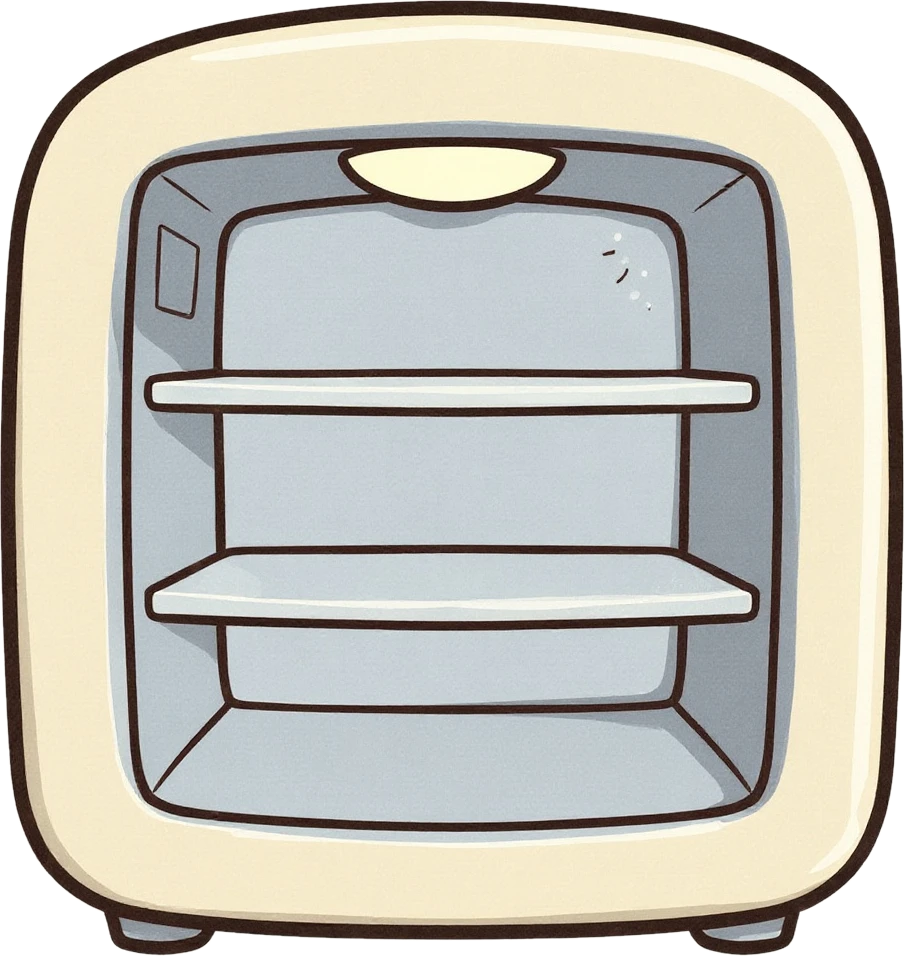
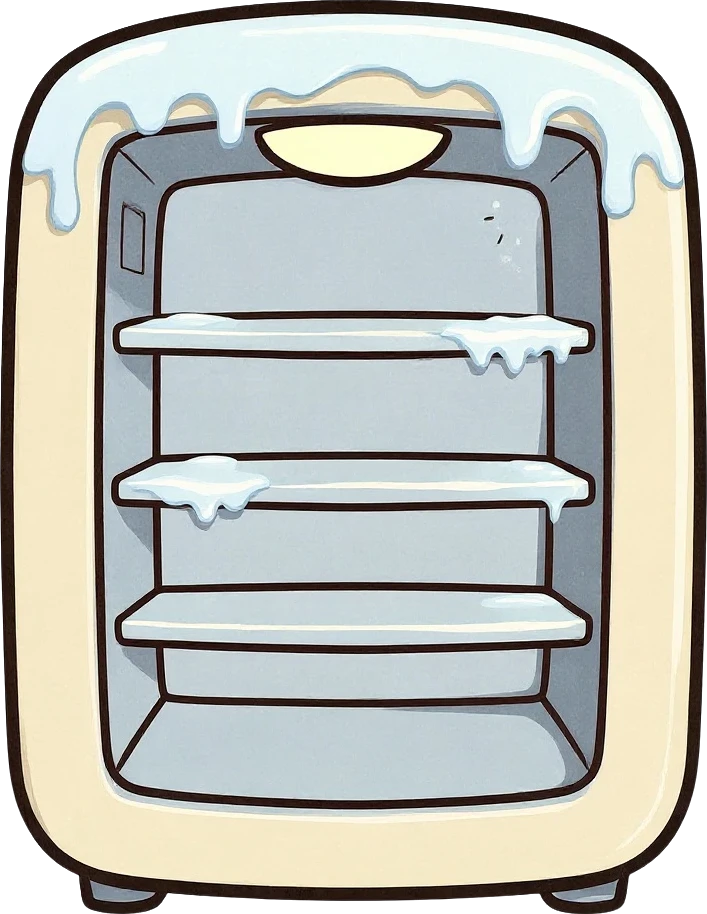
Холодильник: высокая картинка с наледью, мигающая лампочка, продукты меньше, SG между полками

diff --git a/components/cat-fridge-modal.tsx b/components/cat-fridge-modal.tsx
@@ -7,7 +7,7 @@
 // На полках еда (lib/catFood.ts): купленная — цветная со счётчиком, не купленная — силуэт. Под каждой — цена в монетах
 // (Lottie-монета, как в шапке); нажал — покупка на сервере (actions/cat.ts buyCatFood).
 
-import { useState } from 'react'
+import { useEffect, useState } from 'react'
 import { motion } from 'framer-motion'
 import { X } from 'lucide-react'
 import Lottie from '@/components/lottie-player'
@@ -33,6 +33,19 @@ export function CatFridgeModal({ stock, onBought, onClose, offline }: {
     const [busy, setBusy] = useState<CatFood | null>(null)
     const [noCoins, setNoCoins] = useState<CatFood | null>(null)
     const [sgTapped, setSgTapped] = useState(false)
+    // лампочка изредка мигает (раз в 6–13 с: погасла-зажглась-погасла-зажглась)
+    const [dark, setDark] = useState(false)
+    useEffect(() => {
+        let alive = true
+        const timers: ReturnType<typeof setTimeout>[] = []
+        const loop = () => {
+            const t = 6000 + Math.random() * 7000
+            ;[[0, true], [90, false], [190, true], [260, false]].forEach(([d, v]) => timers.push(setTimeout(() => alive && setDark(v as boolean), t + (d as number))))
+            timers.push(setTimeout(() => alive && loop(), t + 300))
+        }
+        loop()
+        return () => { alive = false; timers.forEach(clearTimeout) }
+    }, [])
     const buy = async (kind: CatFood) => {
         if (busy) return
         playJustClick()
@@ -86,13 +99,15 @@ export function CatFridgeModal({ stock, onBought, onClose, offline }: {
         </div>
     )
 
-    // Внутренность холодильника — картинка Leonardo (public/hangar/life/cat-fridge-inside.webp, 904×956,
-    // исходник docs/hangar/leonardo/cat-fridge-inside.jpg). Координаты ниже — % этой картинки: верхняя полка ~41%,
-    // нижняя ~58.5%, камера x 14.5–85.5%, y 13.5–86.5%. Пасхалка «SG was here» нацарапана под нижней полкой справа (cat-fridge-sg.webp).
+    // Внутренность холодильника — картинка Leonardo (public/hangar/life/cat-fridge-inside.webp, 707×914, высокий, наледь
+    // и сосульки уже нарисованы; исходник docs/hangar/leonardo/cat-fridge-inside-2.webp). Координаты — % этой картинки:
+    // камера x 14.4–85.1%, y 13.5–88%; полки — верх 34.4%, 49.8%, 64%; низ нижней 71%; лампочка (50%, 16%).
+    // Продукты — на верхней полке, ценники — на её краю. Лампочка иногда мигает — всё внутри на миг тускнеет.
+    // Пасхалка «SG was here» нацарапана справа между второй и третьей полкой (снизу — между нижней и второй).
     return (
         <div className="fixed inset-0 z-[3000] flex items-center justify-center bg-black/65 p-4" onClick={onClose}>
             <motion.div initial={{ scale: 0.7, opacity: 0 }} animate={{ scale: 1, opacity: 1 }} transition={{ type: 'spring', stiffness: 320, damping: 20 }}
-                className="w-full max-w-[380px]" onClick={(e) => e.stopPropagation()}>
+                className="w-full max-w-[340px]" onClick={(e) => e.stopPropagation()}>
                 <div className="mb-2 flex items-center justify-between px-1">
                     <span className="text-lg font-black text-[#FFF1D6]">Холодильник котика</span>
                     <button type="button" onClick={onClose} aria-label="Закрыть холодильник"
@@ -100,49 +115,44 @@ export function CatFridgeModal({ stock, onBought, onClose, offline }: {
                         <X className="h-4 w-4" strokeWidth={3} />Закрыть
                     </button>
                 </div>
-                <div className="relative w-full overflow-hidden" style={{ aspectRatio: '904 / 956' }}>
+                <div className="relative w-full overflow-hidden" style={{ aspectRatio: '707 / 914' }}>
                     {/* eslint-disable-next-line @next/next/no-img-element */}
                     <img src="/hangar/life/cat-fridge-inside.webp" alt="" draggable={false} className="pointer-events-none absolute inset-0 h-full w-full select-none" />
-                    {/* камера: наледь по углам, пасхалка, снежинки */}
-                    <div className="pointer-events-none absolute overflow-hidden" style={{ left: '14.5%', top: '13.5%', width: '71%', height: '73%', borderRadius: '5%' }}>
-                        {[['0%', '0%'], ['100%', '0%'], ['0%', '100%'], ['100%', '100%']].map(([x, y], i) => (
-                            <span key={i} className="absolute h-[34%] w-[40%] -translate-x-1/2 -translate-y-1/2 rounded-full"
-                                style={{ left: x, top: y, background: 'radial-gradient(closest-side, rgba(255,255,255,0.85), rgba(225,240,255,0.45) 45%, transparent)' }} />
-                        ))}
-                        {/* сосульки-наледь под потолком камеры */}
-                        <svg viewBox="0 0 100 8" preserveAspectRatio="none" className="absolute inset-x-0 top-0 h-[6%] w-full" aria-hidden>
-                            <path d="M0 0 H100 V2 L96 3 L94 6 L92 2.5 L84 3.5 L82 7 L80 3 L66 2.5 L64 5 L62 2.5 L40 3 L38 6.5 L36 2.8 L20 3 L18 5.5 L16 2.6 L6 3 L4 6 L2 2.5 L0 2.5 Z" fill="rgba(245,251,255,0.9)" />
-                        </svg>
-
-                        {FLAKES.map((f, i) => (
-                            <span key={i} className="cat-fridge-flake absolute top-0 select-none text-white"
-                                style={{ left: `${f.x}%`, fontSize: f.s, animationDuration: `${f.d}s`, animationDelay: `${f.delay}s` }}>❄</span>
-                        ))}
-                    </div>
+                    {/* свет лампочки */}
+                    <span className="pointer-events-none absolute -translate-x-1/2 -translate-y-1/2 rounded-full transition-opacity duration-75"
+                        style={{ left: '50%', top: '17%', width: '60%', height: '22%', opacity: dark ? 0 : 0.8, mixBlendMode: 'screen',
+                            background: 'radial-gradient(closest-side, rgba(255,246,200,0.75), rgba(255,240,190,0.25) 55%, transparent)' }} />
                     {/* пасхалка: нажал на нацарапанную надпись — ачивка «Сол Гудман был здесь!» (в зале ачивок — кусочек пиццы) */}
                     <button type="button" aria-label="SG was here" onClick={() => { playJustClick(); setSgTapped(true); if (!offline) reportAchievement('fridge_sg') }}
-                        className="absolute" style={{ left: '55%', top: '63%', width: '25%', height: '8%' }}>
+                        className="absolute" style={{ left: '50%', top: '56.5%', width: '26%', height: '6.5%' }}>
                         {/* eslint-disable-next-line @next/next/no-img-element */}
                         <img src="/hangar/life/cat-fridge-sg.webp" alt="" draggable={false} className="pointer-events-none h-full w-full select-none object-contain"
                             style={{ rotate: '-4deg', opacity: sgTapped ? 0.9 : 0.7, mixBlendMode: 'multiply', transition: 'opacity .3s' }} />
                     </button>
                     {/* верхняя полка: продукты стоят на ней */}
-                    <div className="absolute grid grid-cols-2" style={{ left: '17%', width: '66%', top: '15%', height: '26.5%' }}>
-                        {item('milk', 42)}
-                        {item('sausage', 78)}
+                    <div className="absolute grid grid-cols-2" style={{ left: '20%', width: '60%', top: '20.4%', height: '14.4%' }}>
+                        {item('milk', 34)}
+                        {item('sausage', 72)}
                     </div>
                     {/* ценники на краю верхней полки */}
-                    <div className="absolute grid grid-cols-2" style={{ left: '17%', width: '66%', top: '41%' }}>
+                    <div className="absolute grid grid-cols-2" style={{ left: '20%', width: '60%', top: '35.4%' }}>
                         {tag('milk')}
                         {tag('sausage')}
                     </div>
-                    <p className="pointer-events-none absolute inset-x-[20%] text-center text-[11px] font-bold leading-tight text-[#56646C]" style={{ top: '76%' }}>
-                        Скоро здесь будет больше вкусного
-                    </p>
+                    {/* снежинки — внутри камеры */}
+                    <div className="pointer-events-none absolute overflow-hidden" style={{ left: '14.4%', top: '13.5%', width: '70.7%', height: '74.5%' }}>
+                        {FLAKES.map((f, i) => (
+                            <span key={i} className="cat-fridge-flake absolute top-0 select-none text-white"
+                                style={{ left: `${f.x}%`, fontSize: f.s * 0.8, animationDuration: `${f.d}s`, animationDelay: `${f.delay}s` }}>❄</span>
+                        ))}
+                    </div>
+                    {/* лампочка мигнула — всё внутри на миг тускнеет */}
+                    <div className="pointer-events-none absolute transition-opacity duration-75"
+                        style={{ left: '14.4%', top: '13.5%', width: '70.7%', height: '74.5%', background: 'rgba(12,20,32,0.5)', opacity: dark ? 1 : 0 }} />
                 </div>
                 <style>{`
                     .cat-fridge-flake { animation-name: cat-fridge-fall; animation-timing-function: linear; animation-iteration-count: infinite; opacity: 0; text-shadow: 0 0 4px rgba(150,200,255,.8) }
-                    @keyframes cat-fridge-fall { 0% { transform: translate(0,-20px) rotate(0); opacity: 0 } 10% { opacity: .9 } 90% { opacity: .8 } 100% { transform: translate(18px,360px) rotate(220deg); opacity: 0 } }
+                    @keyframes cat-fridge-fall { 0% { transform: translate(0,-20px) rotate(0); opacity: 0 } 10% { opacity: .9 } 90% { opacity: .8 } 100% { transform: translate(14px,340px) rotate(220deg); opacity: 0 } }
                     @media (prefers-reduced-motion: reduce) { .cat-fridge-flake { animation: none; display: none } }
                 `}</style>
             </motion.div>
